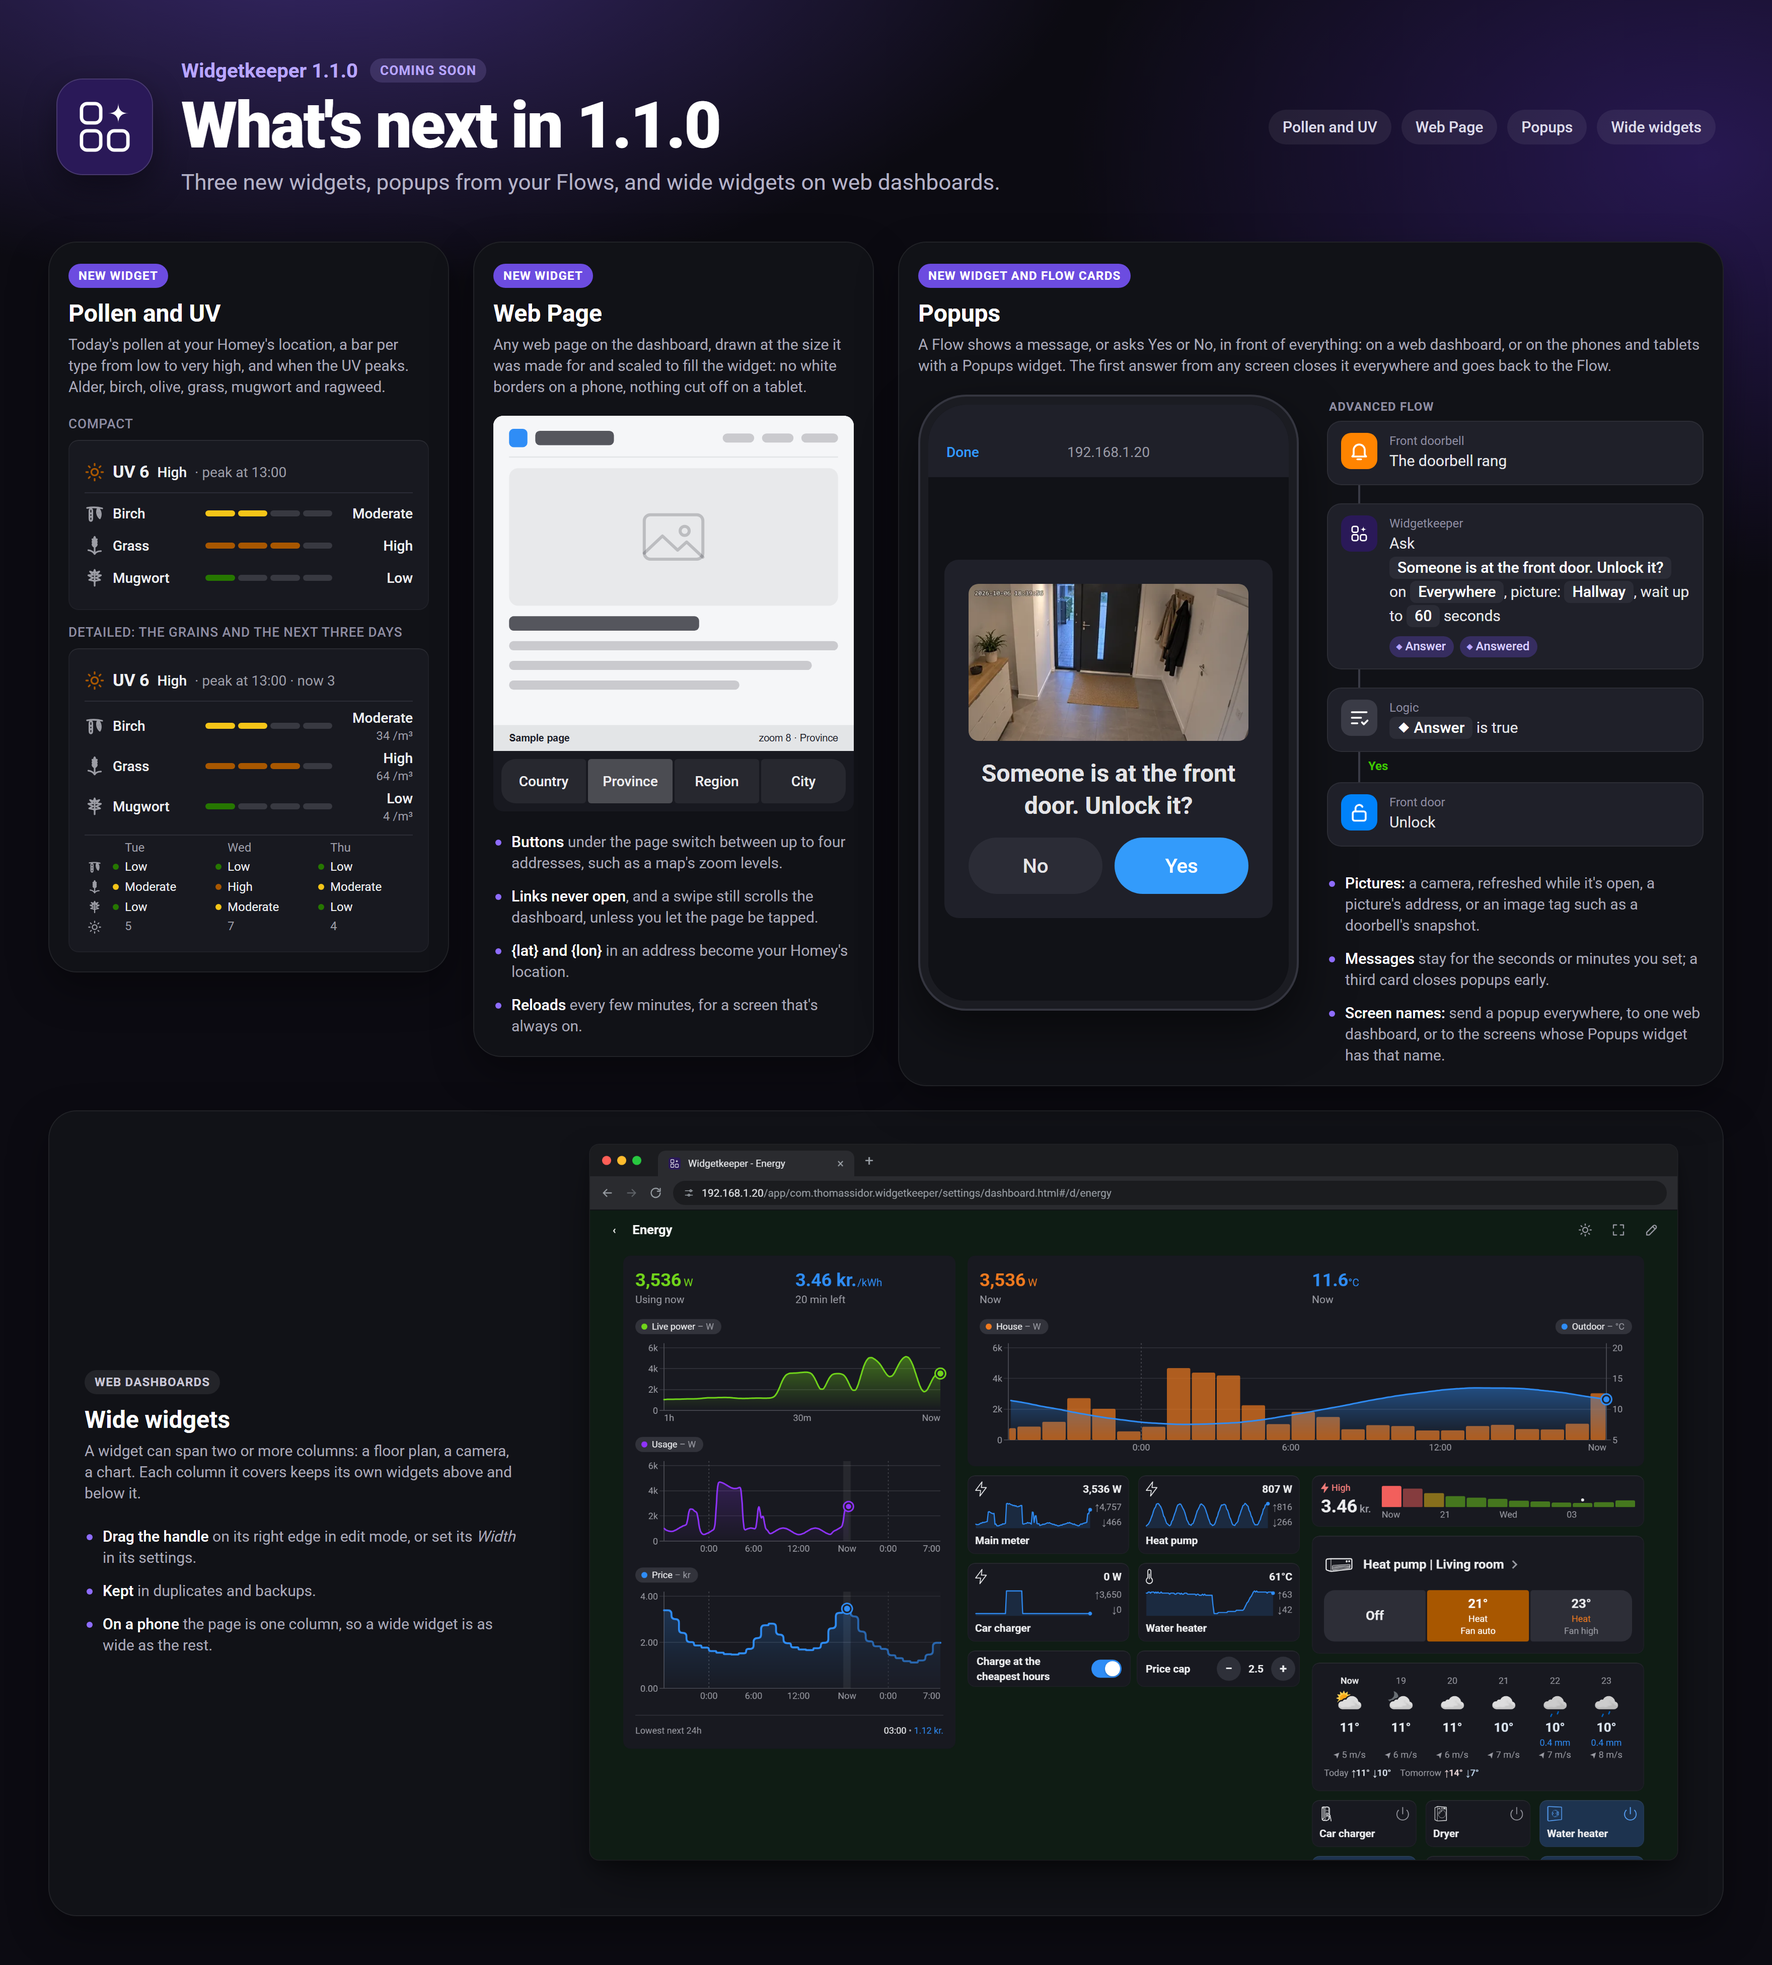
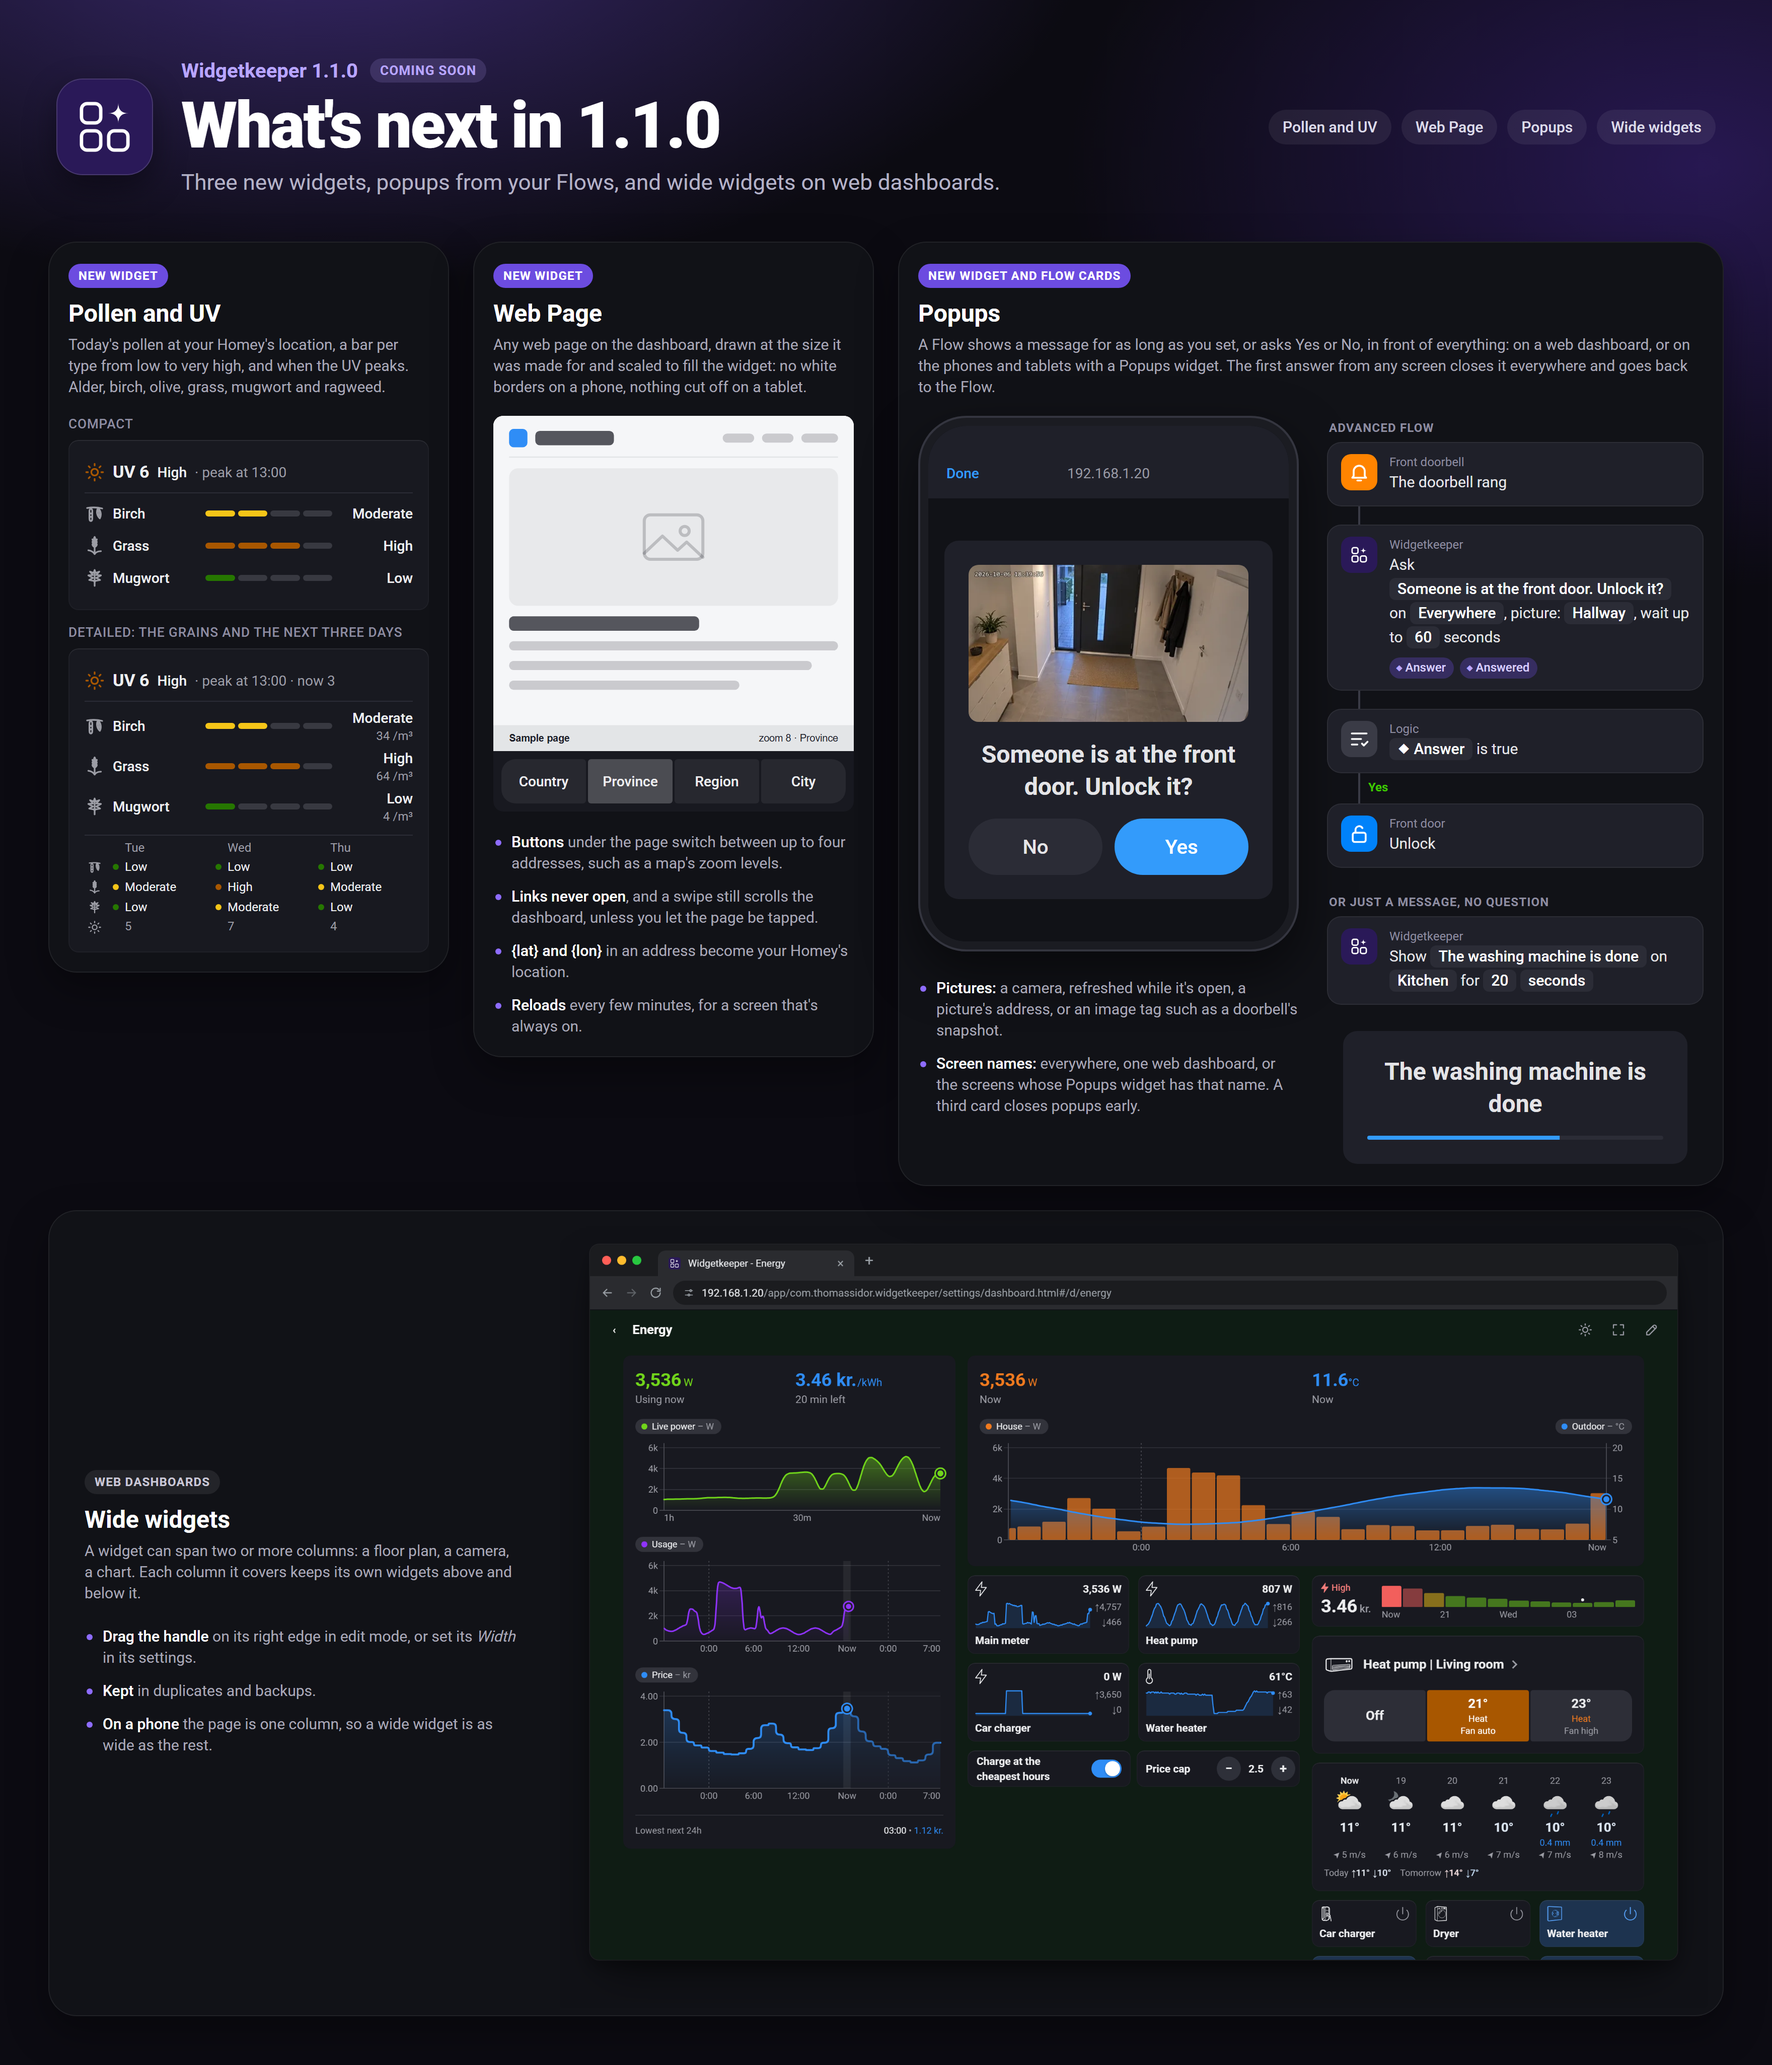
1.1.0 teaser poster: popups can also be just a message
The Popups card shows the Show card and the real prompt page with a message and its
bar, under "Or just a message, no question", beside the Ask example. The phone is
shorter and the notes sit under it, so the card is about as tall as the others.

diff --git a/dev/whats-next.html b/dev/whats-next.html
@@ -80,7 +80,7 @@
     .browser b { color: #339BFB; font-weight: 500; width: 64px; }
     .browser span { flex: 1; text-align: center; }
     .browser i { width: 64px; }
-    .screen iframe { display: block; width: 358px; height: 520px; border: 0; }
+    .screen iframe { display: block; width: 358px; height: 440px; border: 0; }
 
     .flow { flex: 1 1 auto; min-width: 0; display: flex; flex-direction: column; padding-top: 4px; }
     .flow .kind { margin: 0 0 6px 2px; font-size: 12px; line-height: 16px; font-weight: 700; letter-spacing: 0.6px; text-transform: uppercase; color: #8E8DA0; }
@@ -96,7 +96,10 @@
     .link { width: 2px; height: 18px; margin-left: 31px; background: #3A3B46; }
     .link.yes { height: 30px; position: relative; }
     .link.yes::after { content: 'Yes'; position: absolute; left: 10px; top: 6px; font-size: 12px; line-height: 16px; font-weight: 700; color: #3FC700; }
-    .flow ul.more { margin-top: 26px; }
+    .flow .kind.just { margin-top: 26px; }
+    .message { margin-top: 10px; border-radius: 14px; overflow: hidden; }
+    .message iframe { display: block; width: 100%; height: 150px; border: 0; }
+    .side { flex: none; width: 378px; display: flex; flex-direction: column; gap: 26px; }
 
     .wide { margin-top: 24px; display: flex; gap: 40px; align-items: center; padding: 32px 40px 32px 36px; }
     .wide .text { flex: 1 1 auto; min-width: 0; }
@@ -149,12 +152,18 @@
       <section class="feat">
         <span class="tag new">New widget and Flow cards</span>
         <h2>Popups</h2>
-        <p>A Flow shows a message, or asks Yes or No, in front of everything: on a web dashboard, or on the phones and tablets with a Popups widget. The first answer from any screen closes it everywhere and goes back to the Flow.</p>
+        <p>A Flow shows a message for as long as you set, or asks Yes or No, in front of everything: on a web dashboard, or on the phones and tablets with a Popups widget. The first answer from any screen closes it everywhere and goes back to the Flow.</p>
         <div class="popups">
-          <div class="phone"><div class="screen">
-            <div class="browser"><b>Done</b><span>192.168.1.20</span><i></i></div>
-            <iframe id="w-popup" title="Popup"></iframe>
-          </div></div>
+          <div class="side">
+            <div class="phone"><div class="screen">
+              <div class="browser"><b>Done</b><span>192.168.1.20</span><i></i></div>
+              <iframe id="w-popup" title="Popup"></iframe>
+            </div></div>
+            <ul class="more">
+              <li><b>Pictures:</b> a camera, refreshed while it's open, a picture's address, or an image tag such as a doorbell's snapshot.</li>
+              <li><b>Screen names:</b> everywhere, one web dashboard, or the screens whose Popups widget has that name. A third card closes popups early.</li>
+            </ul>
+          </div>
           <div class="flow">
             <div class="kind">Advanced Flow</div>
             <div class="fc">
@@ -180,11 +189,15 @@
               <div class="icon" style="background:#0082FA"><svg viewBox="0 0 24 24" fill="none" stroke="#FFFFFF" stroke-width="2" stroke-linecap="round" stroke-linejoin="round"><rect x="5" y="11" width="14" height="10" rx="2"/><path d="M8 11V8a4 4 0 0 1 7.5-2"/></svg></div>
               <div><div class="owner">Front door</div><div class="text">Unlock</div></div>
             </div>
-            <ul class="more">
-              <li><b>Pictures:</b> a camera, refreshed while it's open, a picture's address, or an image tag such as a doorbell's snapshot.</li>
-              <li><b>Messages</b> stay for the seconds or minutes you set; a third card closes popups early.</li>
-              <li><b>Screen names:</b> send a popup everywhere, to one web dashboard, or to the screens whose Popups widget has that name.</li>
-            </ul>
+            <div class="kind just">Or just a message, no question</div>
+            <div class="fc">
+              <div class="icon" style="background:#2A1958"><svg viewBox="0 0 64 64"><g fill="none" stroke="#FFFFFF" stroke-width="4"><rect x="11.5" y="11.5" width="17" height="17" rx="5"/><rect x="11.5" y="35.5" width="17" height="17" rx="5"/><rect x="35.5" y="35.5" width="17" height="17" rx="5"/></g><path d="M44 11Q44 20 53 20Q44 20 44 29Q44 20 35 20Q44 20 44 11Z" fill="#FFFFFF"/></svg></div>
+              <div>
+                <div class="owner">Widgetkeeper</div>
+                <div class="text">Show <span class="arg">The washing machine is done</span> on <span class="arg">Kitchen</span> for <span class="arg">20</span> <span class="arg">seconds</span></div>
+              </div>
+            </div>
+            <div class="message"><iframe id="w-message" title="Message"></iframe></div>
           </div>
         </div>
       </section>
@@ -236,27 +249,32 @@
         buttons: [{ name: 'Country', url: at(6) }, { name: 'Province', url: at(8) }, { name: 'Region', url: at(11) }, { name: 'City', url: at(13) }],
       });
 
-      // Popups: the real prompt page in dark mode, asking with the hallway camera's (made-up) picture, against a
-      // simulated app (as popups-preview.html); its strings are the page's own English fallbacks.
-      const frame = el('w-popup');
-      frame.srcdoc = '<!DOCTYPE html><html><head><meta charset="utf-8"><meta name="viewport" content="width=device-width, initial-scale=1">'
-        + '<link href="https://fonts.googleapis.com/css2?family=Roboto:wght@400;500;700&display=swap" rel="stylesheet">'
-        + '<link rel="stylesheet" href="../settings/popup.css"><script src="../settings/popup.js"><\/script>'
-        + '<style>.pp { --pp-bg: #111217; --pp-card: #1F2029; --pp-raised: #2B2C36; --pp-text: #E4E4E7; --pp-muted: #999AA3; --pp-accent: #339BFB; }</style>'
-        + '</head><body><main id="app" class="pp"></main></body></html>';
+      // Popups: the real prompt page in dark mode against a simulated app (as popups-preview.html), its strings the
+      // page's own English fallbacks: a question with the hallway camera's (made-up) picture, and a message, its bar
+      // held a third of the way down (it runs down for real, so a render would catch it anywhere).
       const picture = fetch('cameras/door.webp').then(r => r.arrayBuffer()).then((buf) => {
         let bin = '';
         for (const b of new Uint8Array(buf)) bin += String.fromCharCode(b);
         return { type: 'image/webp', data: btoa(bin) };
       });
-      frame.addEventListener('load', () => {
-        const json = body => new Response(JSON.stringify(body));
-        const popup = { closed: false, kind: 'ask', text: 'Someone is at the front door. Unlock it?', picture: { source: 'camera' } };
-        frame.contentWindow.mountPopupPage(frame.contentWindow.document.getElementById('app'), {
-          hash: '#id=p1&t=poster',
-          fetch: async url => (url.endsWith('/image') ? json(await picture) : json({ ...popup, now: Date.now(), until: Date.now() + 60e3, language: 'en' })),
+      const showPopup = (frame, popup) => {
+        frame.srcdoc = '<!DOCTYPE html><html><head><meta charset="utf-8"><meta name="viewport" content="width=device-width, initial-scale=1">'
+          + '<link href="https://fonts.googleapis.com/css2?family=Roboto:wght@400;500;700&display=swap" rel="stylesheet">'
+          + '<link rel="stylesheet" href="../settings/popup.css"><script src="../settings/popup.js"><\/script>'
+          + '<style>.pp { --pp-bg: #111217; --pp-card: #1F2029; --pp-raised: #2B2C36; --pp-text: #E4E4E7; --pp-muted: #999AA3; --pp-accent: #339BFB; }'
+          + ' .pp-bar span { transition: none !important; transform: scaleX(.65) !important; }</style>'
+          + '</head><body><main id="app" class="pp"></main></body></html>';
+        frame.addEventListener('load', () => {
+          const json = body => new Response(JSON.stringify(body));
+          frame.contentWindow.mountPopupPage(frame.contentWindow.document.getElementById('app'), {
+            hash: '#id=p1&t=poster',
+            fetch: async url => (url.endsWith('/image') ? json(await picture)
+              : json({ closed: false, ...popup, now: Date.now(), until: Date.now() + 60e3, language: 'en' })),
+          });
         });
-      });
+      };
+      showPopup(el('w-popup'), { kind: 'ask', text: 'Someone is at the front door. Unlock it?', picture: { source: 'camera' } });
+      showPopup(el('w-message'), { kind: 'message', text: 'The washing machine is done', picture: null });
 
       // The page's size and the columns' heights, for the render script.
       document.fonts.ready.then(() => setTimeout(() => {
